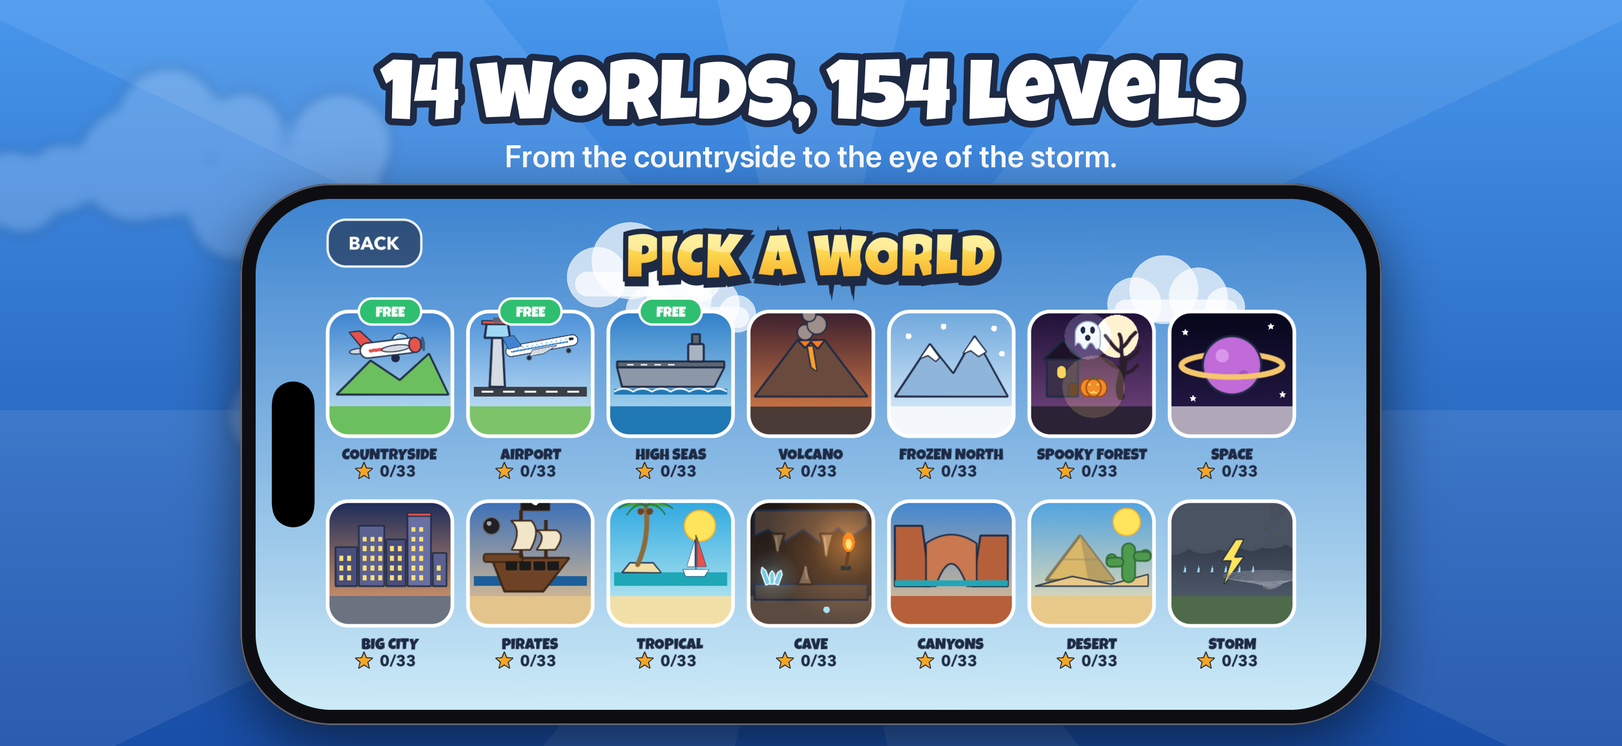
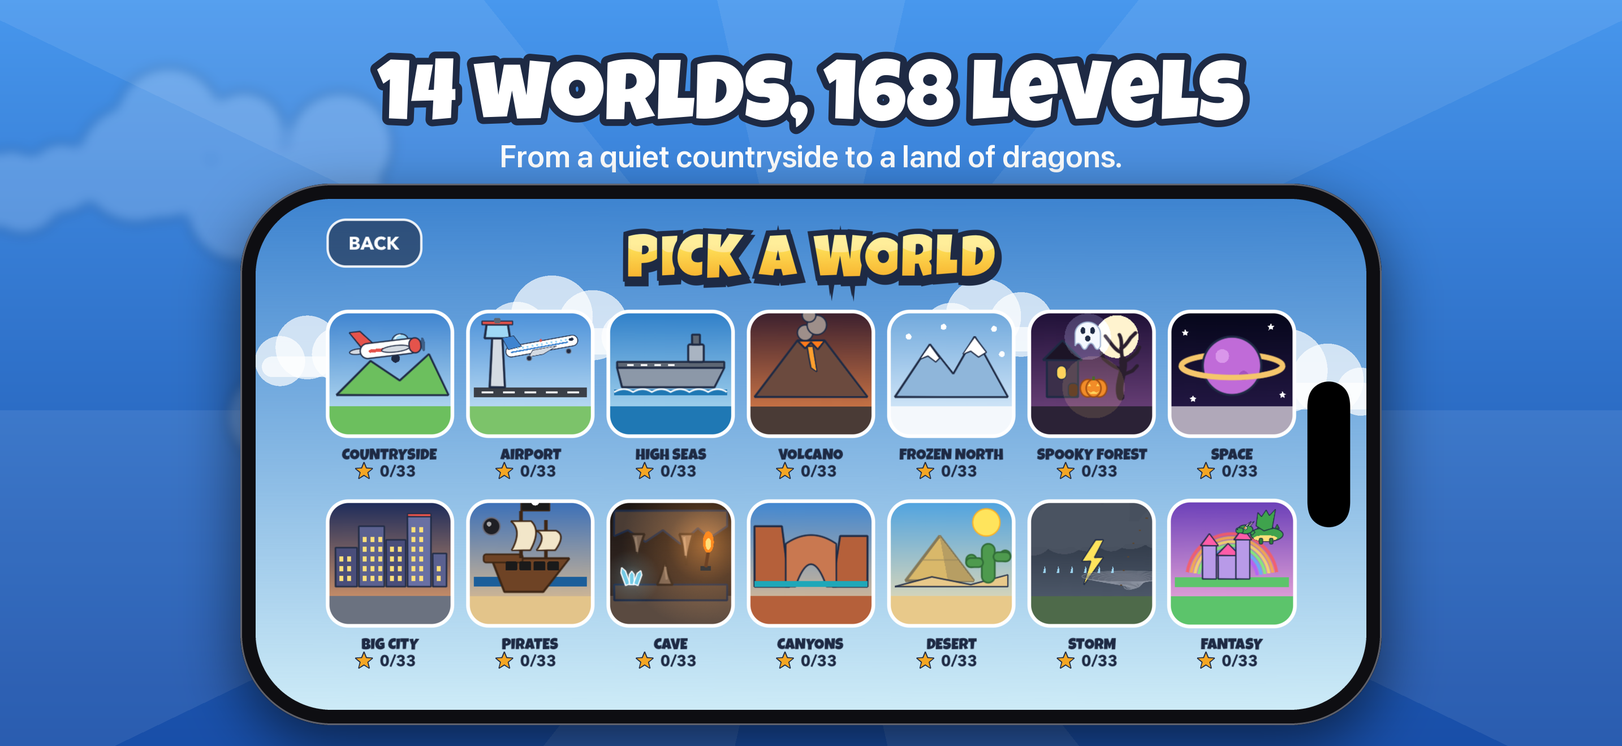
Land the Plane: content pass for the current game (Fantasy world, 168 levels, endurance flights, point packs, leaderboards) and new worlds screenshot

diff --git a/landtheplane/press/index.html b/landtheplane/press/index.html
@@ -195,7 +195,7 @@ footer { color: var(--muted); font-size: 14px; }
   <section aria-labelledby="worlds-h">
     <div class="section-head">
       <span class="label">Flight plan</span>
-      <h2 id="worlds-h">14 worlds, 154 levels</h2>
+      <h2 id="worlds-h">14 worlds, 168 levels</h2>
     </div>
     <div class="worlds">
       <div class="world free"><span class="n">WORLD 1 · FREE</span><div class="t">Countryside</div><div class="d">Learn to fly</div></div>
@@ -207,11 +207,11 @@ footer { color: var(--muted); font-size: 14px; }
       <div class="world"><span class="n">WORLD 7</span><div class="t">Space</div><div class="d">New planet, new gravity</div></div>
       <div class="world"><span class="n">WORLD 8</span><div class="t">Big City</div><div class="d">Rooftop landings</div></div>
       <div class="world"><span class="n">WORLD 9</span><div class="t">Pirates</div><div class="d">Cannons, forts, and treasure</div></div>
-      <div class="world"><span class="n">WORLD 10</span><div class="t">Tropical</div><div class="d">Beaches, lagoons, and rafts</div></div>
-      <div class="world"><span class="n">WORLD 11</span><div class="t">Cave</div><div class="d">Mind the roof</div></div>
-      <div class="world"><span class="n">WORLD 12</span><div class="t">Canyons</div><div class="d">Arches, tunnels, and trains</div></div>
-      <div class="world"><span class="n">WORLD 13</span><div class="t">Desert</div><div class="d">Dunes, ruins, and sandstorms</div></div>
-      <div class="world"><span class="n">WORLD 14</span><div class="t">Storm</div><div class="d">The ultimate challenge</div></div>
+      <div class="world"><span class="n">WORLD 10</span><div class="t">Cave</div><div class="d">Mind the roof</div></div>
+      <div class="world"><span class="n">WORLD 11</span><div class="t">Canyons</div><div class="d">Arches, tunnels, and trains</div></div>
+      <div class="world"><span class="n">WORLD 12</span><div class="t">Desert</div><div class="d">Dunes, ruins, and sandstorms</div></div>
+      <div class="world"><span class="n">WORLD 13</span><div class="t">Storm</div><div class="d">The ultimate challenge</div></div>
+      <div class="world"><span class="n">WORLD 14</span><div class="t">Fantasy</div><div class="d">Dragons, goblins, and fairies</div></div>
     </div>
   </section>
 
@@ -222,12 +222,14 @@ footer { color: var(--muted); font-size: 14px; }
     </div>
     <div class="features">
       <div class="feature"><h3>Slingshot launch</h3><p>One drag sets the power. Then it is climb, dive, and flaps to line up the touchdown.</p></div>
-      <div class="feature"><h3>Hazards in every world</h3><p>Lava bombs, ice chunks, ghosts, bats, asteroids, cannonballs, lightning, and tornadoes, depending on the world.</p></div>
+      <div class="feature"><h3>Endurance flights</h3><p>Three-star every level in a world to unlock its endurance flight: a long journey from day into night with the engine running, a fuel gauge, and fuel cans to grab. A flag marks your best distance.</p></div>
+      <div class="feature"><h3>Hazards in every world</h3><p>Lava bombs, ice chunks, ghosts, bats, asteroids, cannonballs, fighter jets, hawks, tornadoes, lightning, dragon fire, and a boulder-throwing rock monster, depending on the world.</p></div>
       <div class="feature"><h3>Runways that move</h3><p>Carriers, trains, rafts, and floating ice floes, with an arrestor wire to catch.</p></div>
       <div class="feature"><h3>New planets, new gravity</h3><p>In Space, each planet has its own gravity and air.</p></div>
-      <div class="feature"><h3>Daily challenges</h3><p>Three new challenges a day, easy, medium, and hard, that pay out points.</p></div>
-      <div class="feature"><h3>Plane shop</h3><p>Spend earned points on more than 80 plane skins, smoke trails, and slingshots, from common to legendary.</p></div>
-      <div class="feature"><h3>Game Center achievements</h3><p>47 achievements for landings, streaks, special runways, and night flights.</p></div>
+      <div class="feature"><h3>A world of sound</h3><p>Every world has its own soundscape, and hazards growl, cackle, and gloat when they get you.</p></div>
+      <div class="feature"><h3>Daily challenges</h3><p>Three new challenges a day, easy, medium, and hard, that pay out points. Free for everyone.</p></div>
+      <div class="feature"><h3>Plane shop</h3><p>Spend earned points on nearly 90 plane skins, smoke trails, and slingshots, from common to legendary.</p></div>
+      <div class="feature"><h3>Game Center</h3><p>46 achievements and leaderboards for total stars, endurance distance, and daily challenges.</p></div>
       <div class="feature"><h3>No ads, no tracking</h3><p>No account, no ads, no analytics, and it plays fully offline.</p></div>
     </div>
   </section>
@@ -246,7 +248,7 @@ footer { color: var(--muted); font-size: 14px; }
       <figure><a href="/assets/images/landtheplane/store/full/iphone-space.png" download><img src="/assets/images/landtheplane/store/iphone-space.jpg" alt="The plane gliding over the surface of Mars with a planet hanging in the sky." width="1600" height="736" loading="lazy"></a><figcaption>New planet, new gravity</figcaption></figure>
       <figure><a href="/assets/images/landtheplane/store/full/iphone-carrier.png" download><img src="/assets/images/landtheplane/store/iphone-carrier.jpg" alt="The plane lining up its approach to a grey aircraft carrier with a glowing deck." width="1600" height="736" loading="lazy"></a><figcaption>Land on a moving carrier</figcaption></figure>
       <figure><a href="/assets/images/landtheplane/store/full/iphone-volcano.png" download><img src="/assets/images/landtheplane/store/iphone-volcano.jpg" alt="The plane flying over a volcano with lava rivers and lava bombs in the air." width="1600" height="736" loading="lazy"></a><figcaption>Dodge the lava bombs</figcaption></figure>
-      <figure><a href="/assets/images/landtheplane/store/full/iphone-worlds.png" download><img src="/assets/images/landtheplane/store/iphone-worlds.jpg" alt="The world picker showing all 14 worlds, with the first three marked free." width="1600" height="736" loading="lazy"></a><figcaption>14 worlds, 154 levels</figcaption></figure>
+      <figure><a href="/assets/images/landtheplane/store/full/iphone-worlds.png" download><img src="/assets/images/landtheplane/store/iphone-worlds.jpg" alt="The world picker showing all 14 worlds, with the first three marked free." width="1600" height="736" loading="lazy"></a><figcaption>14 worlds, 168 levels</figcaption></figure>
       <figure><a href="/assets/images/landtheplane/store/full/iphone-shop.png" download><img src="/assets/images/landtheplane/store/iphone-shop.jpg" alt="The plane shop with the legendary dragon selected." width="1600" height="736" loading="lazy"></a><figcaption>Unlock legendary planes</figcaption></figure>
       <figure><a href="/assets/images/landtheplane/store/full/iphone-challenges.png" download><img src="/assets/images/landtheplane/store/iphone-challenges.jpg" alt="The daily challenges panel with an easy, a medium, and a hard mission." width="1600" height="736" loading="lazy"></a><figcaption>New challenges every day</figcaption></figure>
     </div>
@@ -258,7 +260,7 @@ footer { color: var(--muted); font-size: 14px; }
       <figure><a href="/assets/images/landtheplane/store/full/ipad-space.png" download><img src="/assets/images/landtheplane/store/ipad-space.jpg" alt="The plane gliding over the surface of Mars with a planet hanging in the sky." width="1200" height="900" loading="lazy"></a><figcaption>New planet, new gravity</figcaption></figure>
       <figure><a href="/assets/images/landtheplane/store/full/ipad-carrier.png" download><img src="/assets/images/landtheplane/store/ipad-carrier.jpg" alt="The plane lining up its approach to a grey aircraft carrier with a glowing deck." width="1200" height="900" loading="lazy"></a><figcaption>Land on a moving carrier</figcaption></figure>
       <figure><a href="/assets/images/landtheplane/store/full/ipad-volcano.png" download><img src="/assets/images/landtheplane/store/ipad-volcano.jpg" alt="The plane flying over a volcano with lava rivers and lava bombs in the air." width="1200" height="900" loading="lazy"></a><figcaption>Dodge the lava bombs</figcaption></figure>
-      <figure><a href="/assets/images/landtheplane/store/full/ipad-worlds.png" download><img src="/assets/images/landtheplane/store/ipad-worlds.jpg" alt="The world picker showing all 14 worlds, with the first three marked free." width="1200" height="900" loading="lazy"></a><figcaption>14 worlds, 154 levels</figcaption></figure>
+      <figure><a href="/assets/images/landtheplane/store/full/ipad-worlds.png" download><img src="/assets/images/landtheplane/store/ipad-worlds.jpg" alt="The world picker showing all 14 worlds, with the first three marked free." width="1200" height="900" loading="lazy"></a><figcaption>14 worlds, 168 levels</figcaption></figure>
       <figure><a href="/assets/images/landtheplane/store/full/ipad-shop.png" download><img src="/assets/images/landtheplane/store/ipad-shop.jpg" alt="The plane shop with the legendary dragon selected." width="1200" height="900" loading="lazy"></a><figcaption>Unlock legendary planes</figcaption></figure>
       <figure><a href="/assets/images/landtheplane/store/full/ipad-challenges.png" download><img src="/assets/images/landtheplane/store/ipad-challenges.jpg" alt="The daily challenges panel with an easy, a medium, and a hard mission." width="1200" height="900" loading="lazy"></a><figcaption>New challenges every day</figcaption></figure>
     </div>
@@ -287,11 +289,11 @@ footer { color: var(--muted); font-size: 14px; }
     <div class="copyblocks">
       <div class="copy">
         <div class="copy-top"><span class="label">One line</span><button type="button" data-copy="c1">Copy</button></div>
-        <p id="c1">Land the Plane is an iPhone and iPad game where you launch a little plane with a slingshot and set it down gently on the runway, across 14 worlds.</p>
+        <p id="c1">Land the Plane is an iPhone and iPad game where you launch a little plane with a slingshot and set it down gently on the runway, across 14 worlds, with long endurance flights from day into night.</p>
       </div>
       <div class="copy">
         <div class="copy-top"><span class="label">Short paragraph</span><button type="button" data-copy="c2">Copy</button></div>
-        <p id="c2">Land the Plane is a game for iPhone and iPad about one thing: landing. Players drag back to launch a little plane with a slingshot, then climb, dive, and use flaps to bring it down gently on the runway for up to three stars. 154 levels across 14 worlds mix in moving carriers, trains, and ice floes, lava bombs, ghosts, and asteroids, and even planets with their own gravity. The first three worlds are free, and a one-time purchase unlocks the rest along with daily challenges, a plane shop, and Game Center achievements. There are no ads, no accounts, and no tracking. Land the Plane was built by independent developer Alexander Rohr, and the name comes from a real moment: a business call that would not end, and his wife, sitting next to him in the carpool line, saying &ldquo;land the plane.&rdquo;</p>
+        <p id="c2">Land the Plane is a game for iPhone and iPad about one thing: landing. Players drag back to launch a little plane with a slingshot, then climb, dive, and use flaps to bring it down gently on the runway for up to three stars. 168 levels across 14 worlds mix in moving carriers, trains, and ice floes, lava bombs, ghosts, fighter jets, and even planets with their own gravity. Three-starring a world unlocks its endurance flight, a long run from day into night where players manage fuel and chase a best distance. The first three worlds are free, and a one-time purchase unlocks the other eleven. Daily challenges, the plane shop, and Game Center leaderboards are free for everyone. There are no ads, no accounts, and no tracking. Land the Plane was built by independent developer Alexander Rohr, and the name comes from a real moment: a business call that would not end, and his wife, sitting next to him in the carpool line, saying &ldquo;land the plane.&rdquo;</p>
       </div>
     </div>
   </section>
@@ -308,11 +310,11 @@ footer { color: var(--muted); font-size: 14px; }
       <div class="fact"><span class="label">Release</span><span>Coming soon to the App Store</span></div>
       <div class="fact"><span class="label">Category</span><span>Games</span></div>
       <div class="fact"><span class="label">Price</span><span>Free download</span></div>
-      <div class="fact"><span class="label">In-app purchase</span><span>Unlock All Worlds, $3.99 one time, no subscription</span></div>
-      <div class="fact"><span class="label">Free</span><span>Countryside, Airport, and High Seas (33 levels)</span></div>
-      <div class="fact"><span class="label">Content</span><span>14 worlds, 154 levels, 3 stars per level</span></div>
-      <div class="fact"><span class="label">Shop</span><span>More than 80 items: plane skins, smoke trails, and slingshots, common to legendary</span></div>
-      <div class="fact"><span class="label">Game Center</span><span>47 achievements, optional sign-in</span></div>
+      <div class="fact"><span class="label">In-app purchases</span><span>Unlock All Worlds, $3.99 one time, no subscription. Optional point packs for the shop, $0.99 and $2.99</span></div>
+      <div class="fact"><span class="label">Free</span><span>Countryside, Airport, and High Seas, plus daily challenges, the plane shop, and leaderboards</span></div>
+      <div class="fact"><span class="label">Content</span><span>14 worlds, 168 levels including an endurance flight in each world, up to 3 stars per level</span></div>
+      <div class="fact"><span class="label">Shop</span><span>Nearly 90 items: plane skins, smoke trails, and slingshots, common to legendary</span></div>
+      <div class="fact"><span class="label">Game Center</span><span>46 achievements and 3 leaderboards, optional sign-in</span></div>
       <div class="fact"><span class="label">Privacy</span><span>No account, no ads, no analytics, no servers of its own. <a href="/landtheplane/privacy/">Privacy policy</a></span></div>
       <div class="fact"><span class="label">Terms</span><span><a href="/landtheplane/terms/">Terms &amp; Conditions</a></span></div>
       <div class="fact"><span class="label">Built with</span><span>SpriteKit, GameKit, StoreKit 2</span></div>
@@ -325,7 +327,7 @@ footer { color: var(--muted); font-size: 14px; }
       <h2 id="credits-h">Credits</h2>
     </div>
     <div class="contact">
-      <p>Heading font: Luckiest Guy by Astigmatic, under the Apache License 2.0. Music and sound effects are synthesized in the game itself.</p>
+      <p>Heading font: Luckiest Guy by Astigmatic, under the Apache License 2.0.</p>
     </div>
   </section>
 

diff --git a/landtheplane/index.html b/landtheplane/index.html
@@ -4,9 +4,9 @@
 <meta charset="utf-8">
 <meta name="viewport" content="width=device-width, initial-scale=1">
 <title>Land the Plane · Rohr Software</title>
-<meta name="description" content="Land the Plane is an iPhone and iPad game about launching a little plane with a slingshot and setting it down gently on the runway, across 14 worlds and 154 levels.">
+<meta name="description" content="Land the Plane is an iPhone and iPad game about launching a little plane with a slingshot and setting it down gently on the runway, across 14 worlds and 168 levels.">
 <meta property="og:title" content="Land the Plane">
-<meta property="og:description" content="Launch with a slingshot, glide over the hazards, and land gently. 14 worlds, 154 levels, no ads.">
+<meta property="og:description" content="Launch with a slingshot, glide over the hazards, and land gently. 14 worlds, 168 levels, no ads.">
 <meta property="og:image" content="/assets/images/landtheplane/icon-512.png">
 <link rel="icon" href="/favicon.ico" sizes="any">
 <link rel="icon" type="image/png" sizes="32x32" href="/favicon-32.png">
@@ -130,11 +130,11 @@
       <div class="world"><span class="n">WORLD 7</span><div class="t">Space</div><div class="d">New planet, new gravity</div></div>
       <div class="world"><span class="n">WORLD 8</span><div class="t">Big City</div><div class="d">Rooftop landings</div></div>
       <div class="world"><span class="n">WORLD 9</span><div class="t">Pirates</div><div class="d">Cannons, forts, and treasure</div></div>
-      <div class="world"><span class="n">WORLD 10</span><div class="t">Tropical</div><div class="d">Beaches, lagoons, and rafts</div></div>
-      <div class="world"><span class="n">WORLD 11</span><div class="t">Cave</div><div class="d">Mind the roof</div></div>
-      <div class="world"><span class="n">WORLD 12</span><div class="t">Canyons</div><div class="d">Arches, tunnels, and trains</div></div>
-      <div class="world"><span class="n">WORLD 13</span><div class="t">Desert</div><div class="d">Dunes, ruins, and sandstorms</div></div>
-      <div class="world"><span class="n">WORLD 14</span><div class="t">Storm</div><div class="d">The ultimate challenge</div></div>
+      <div class="world"><span class="n">WORLD 10</span><div class="t">Cave</div><div class="d">Mind the roof</div></div>
+      <div class="world"><span class="n">WORLD 11</span><div class="t">Canyons</div><div class="d">Arches, tunnels, and trains</div></div>
+      <div class="world"><span class="n">WORLD 12</span><div class="t">Desert</div><div class="d">Dunes, ruins, and sandstorms</div></div>
+      <div class="world"><span class="n">WORLD 13</span><div class="t">Storm</div><div class="d">The ultimate challenge</div></div>
+      <div class="world"><span class="n">WORLD 14</span><div class="t">Fantasy</div><div class="d">Dragons, goblins, and fairies</div></div>
     </div>
   </section>
 
@@ -144,13 +144,15 @@
       <h2 id="feat-h">Easy to learn, hard to land</h2>
     </div>
     <div class="features">
-      <div class="feature"><h3>154 levels</h3><p>Eleven levels in every world, from a gentle first flight to the storm finale, with night landings along the way.</p></div>
-      <div class="feature"><h3>Hazards that fly back</h3><p>Dodge lava bombs, ice chunks, ghosts, bats, asteroids, cannonballs, lightning, and tornadoes, depending on where you are.</p></div>
+      <div class="feature"><h3>168 levels</h3><p>Twelve levels in every world, from a gentle first flight to a night bonus, plus a legendary endurance flight.</p></div>
+      <div class="feature"><h3>Endurance flights</h3><p>Three-star every level in a world to unlock its endurance flight: a long journey from day into night with the engine running. Hold the throttle, watch the fuel gauge, grab fuel cans, and don't climb too high or the engine stalls. A flag marks your best distance.</p></div>
+      <div class="feature"><h3>Hazards that fly back</h3><p>Dodge lava bombs, ice chunks, ghosts, bats, asteroids, cannonballs, fighter jets, hawks, tornadoes, lightning, dragon fire, and a rock monster that throws boulders.</p></div>
       <div class="feature"><h3>Runways that move</h3><p>Land on a carrier at sea, a rolling train, a bobbing raft, or a floating ice floe, and catch the arrestor wire.</p></div>
       <div class="feature"><h3>New planets, new gravity</h3><p>In Space, each planet has its own gravity and air, so the same flying skills need a different touch.</p></div>
-      <div class="feature"><h3>Daily challenges</h3><p>Three new challenges every day, easy, medium, and hard, that pay out points for finishing them.</p></div>
-      <div class="feature"><h3>Plane shop</h3><p>Spend your points on more than 80 plane skins, smoke trails, and slingshots, from common to legendary. Fly a dragon, a UFO, or a rainbow unicorn.</p></div>
-      <div class="feature"><h3>47 achievements</h3><p>Earn Game Center achievements for perfect landings, long streaks, special runways, and night flights.</p></div>
+      <div class="feature"><h3>A world of sound</h3><p>Every world has its own soundscape, from birdsong and crashing waves to howling wind, city traffic, and bubbling lava. Hazards growl, cackle, and gloat when they get you.</p></div>
+      <div class="feature"><h3>Daily challenges</h3><p>Three new challenges every day, easy, medium, and hard, pay out points. They're free for everyone.</p></div>
+      <div class="feature"><h3>Plane shop</h3><p>Spend your points on nearly 90 plane skins, smoke trails, and slingshots, from common to legendary. Fly a dragon, a UFO, or a rainbow unicorn.</p></div>
+      <div class="feature"><h3>Achievements and leaderboards</h3><p>Earn 46 Game Center achievements and compete on leaderboards for total stars, endurance distance, and daily challenges.</p></div>
       <div class="feature"><h3>Made for both screens</h3><p>Plays in landscape on iPhone and iPad, with settings for music, sound, vibration, and on-screen pitch buttons.</p></div>
       <div class="feature"><h3>No ads, no tracking</h3><p>No account, no ads, and no analytics. The game works fully offline.</p></div>
     </div>
@@ -169,7 +171,7 @@
       <figure><img src="/assets/images/landtheplane/store/iphone-space.jpg" alt="The plane gliding over the surface of Mars with a planet hanging in the sky." width="1600" height="736" loading="lazy"><figcaption>New planet, new gravity</figcaption></figure>
       <figure><img src="/assets/images/landtheplane/store/iphone-carrier.jpg" alt="The plane lining up its approach to a grey aircraft carrier with a glowing deck." width="1600" height="736" loading="lazy"><figcaption>Land on a moving carrier</figcaption></figure>
       <figure><img src="/assets/images/landtheplane/store/iphone-volcano.jpg" alt="The plane flying over a volcano with lava rivers and lava bombs in the air." width="1600" height="736" loading="lazy"><figcaption>Dodge the lava bombs</figcaption></figure>
-      <figure><img src="/assets/images/landtheplane/store/iphone-worlds.jpg" alt="The world picker showing all 14 worlds, with the first three marked free." width="1600" height="736" loading="lazy"><figcaption>14 worlds, 154 levels</figcaption></figure>
+      <figure><img src="/assets/images/landtheplane/store/iphone-worlds.jpg" alt="The world picker showing all 14 worlds, with the first three marked free." width="1600" height="736" loading="lazy"><figcaption>14 worlds, 168 levels</figcaption></figure>
       <figure><img src="/assets/images/landtheplane/store/iphone-shop.jpg" alt="The plane shop with the legendary dragon selected." width="1600" height="736" loading="lazy"><figcaption>Unlock legendary planes</figcaption></figure>
       <figure><img src="/assets/images/landtheplane/store/iphone-challenges.jpg" alt="The daily challenges panel with an easy, a medium, and a hard mission." width="1600" height="736" loading="lazy"><figcaption>New challenges every day</figcaption></figure>
     </div>
@@ -188,7 +190,7 @@
       <figure><img src="/assets/images/landtheplane/store/ipad-space.jpg" alt="The plane gliding over the surface of Mars with a planet hanging in the sky." width="1200" height="900" loading="lazy"><figcaption>New planet, new gravity</figcaption></figure>
       <figure><img src="/assets/images/landtheplane/store/ipad-carrier.jpg" alt="The plane lining up its approach to a grey aircraft carrier with a glowing deck." width="1200" height="900" loading="lazy"><figcaption>Land on a moving carrier</figcaption></figure>
       <figure><img src="/assets/images/landtheplane/store/ipad-volcano.jpg" alt="The plane flying over a volcano with lava rivers and lava bombs in the air." width="1200" height="900" loading="lazy"><figcaption>Dodge the lava bombs</figcaption></figure>
-      <figure><img src="/assets/images/landtheplane/store/ipad-worlds.jpg" alt="The world picker showing all 14 worlds, with the first three marked free." width="1200" height="900" loading="lazy"><figcaption>14 worlds, 154 levels</figcaption></figure>
+      <figure><img src="/assets/images/landtheplane/store/ipad-worlds.jpg" alt="The world picker showing all 14 worlds, with the first three marked free." width="1200" height="900" loading="lazy"><figcaption>14 worlds, 168 levels</figcaption></figure>
       <figure><img src="/assets/images/landtheplane/store/ipad-shop.jpg" alt="The plane shop with the legendary dragon selected." width="1200" height="900" loading="lazy"><figcaption>Unlock legendary planes</figcaption></figure>
       <figure><img src="/assets/images/landtheplane/store/ipad-challenges.jpg" alt="The daily challenges panel with an easy, a medium, and a hard mission." width="1200" height="900" loading="lazy"><figcaption>New challenges every day</figcaption></figure>
     </div>
@@ -205,17 +207,24 @@
         <p class="amount">$0</p>
         <ul>
           <li>Countryside, Airport, and High Seas</li>
-          <li>33 levels, with stars and records</li>
-          <li>Music, sound, and vibration settings</li>
+          <li>Daily challenges, the plane shop, and Game Center leaderboards</li>
+          <li>Stars, records, and every setting</li>
         </ul>
       </div>
       <div class="tier pro">
         <h3>Unlock All Worlds</h3>
         <p class="amount">$3.99 <span class="muted" style="font-size:15px;font-weight:600">one time</span></p>
         <ul>
-          <li>All 14 worlds, and every world added later</li>
-          <li>Daily challenges and the plane shop</li>
+          <li>The other eleven worlds, with their endurance flights</li>
           <li>No subscription, restorable on any device with the same Apple Account</li>
+        </ul>
+      </div>
+      <div class="tier">
+        <h3>Point packs</h3>
+        <p class="amount">$0.99 <span class="muted" style="font-size:15px;font-weight:600">and $2.99</span></p>
+        <ul>
+          <li>Optional: more points to spend in the shop</li>
+          <li>Points are also earned free by playing</li>
         </ul>
       </div>
     </div>
@@ -227,7 +236,7 @@
       <h2 id="priv-h">Stays on your device</h2>
     </div>
     <div class="prose">
-      <p>Land the Plane has no account, no ads, and no third-party analytics. Your stars, points, and settings are saved on your device, and the game has no servers of its own. Game Center achievements are optional.</p>
+      <p>Land the Plane has no account, no ads, and no third-party analytics. Your stars, points, and settings are saved on your device, and the game has no servers of its own. Game Center achievements and leaderboards are optional.</p>
       <p><a href="/landtheplane/privacy/">Read the privacy policy</a></p>
     </div>
   </section>

diff --git a/landtheplane/terms/index.html b/landtheplane/terms/index.html
@@ -44,7 +44,7 @@
   <header style="display:grid;gap:12px">
     <span class="label">Land the Plane</span>
     <h1>Terms &amp; Conditions</h1>
-    <p class="muted">Effective October 14, 2026</p>
+    <p class="muted">Effective October 22, 2026</p>
   </header>
 
   <div class="policy">
@@ -56,28 +56,32 @@
 
     <div class="notice">
       <h2>Progress is stored on your device only</h2>
-      <p>Land the Plane does not use iCloud or any account system. Your stars, points, unlocked cosmetics, and settings are stored only on the device you play on, and do not transfer if you get a new device or reinstall the App. Achievements you earned while signed in to Game Center are kept by Apple.</p>
-      <p>Unlock All Worlds is tied to your Apple Account and can be restored on a device using the same Apple Account through the App's Restore Purchases option, but progress and points earned by playing are not restored.</p>
+      <p>Land the Plane does not use iCloud or any account system. Your stars, points, best distances, unlocked cosmetics, and settings are stored only on the device you play on, and do not transfer if you get a new device or reinstall the App. Achievements and leaderboard scores you earned while signed in to Game Center are kept by Apple.</p>
+      <p>Unlock All Worlds is tied to your Apple Account and can be restored on a device using the same Apple Account through the App's Restore Purchases option. Progress and points, whether earned by playing or bought in a point pack, are not restored.</p>
     </div>
 
     <section>
       <h2>Purchases</h2>
-      <p>The App is free to download and includes its first three worlds at no cost. It offers one optional in-app purchase, Unlock All Worlds, which opens every other world, including worlds added in future updates, along with daily challenges and the plane shop. It is a one-time purchase and not a subscription.</p>
+      <p>The App is free to download and includes its first three worlds at no cost. Daily challenges, the plane shop, and Game Center leaderboards are free for everyone. The App offers optional in-app purchases:</p>
       <ul>
-        <li>Payment is charged to your Apple Account when you confirm the purchase.</li>
+        <li><strong>Unlock All Worlds</strong> is a one-time purchase that opens the other eleven worlds. It is not a subscription.</li>
+        <li><strong>Point packs</strong> add points to spend in the shop on plane skins, smoke trails, and slingshots. They are consumable: once the points are added, the purchase is used up and cannot be restored.</li>
+      </ul>
+      <ul>
+        <li>Payment is charged to your Apple Account when you confirm a purchase.</li>
         <li>Refunds are handled by Apple under its policies.</li>
-        <li>In-game points are earned by playing and are not sold for money.</li>
+        <li>Points can also be earned for free by playing. Points have no cash value and cannot be transferred or exchanged.</li>
       </ul>
     </section>
 
     <section>
       <h2>Game Center</h2>
-      <p>Achievements use Apple Game Center and are governed by Apple's own terms. Signing in to Game Center is optional.</p>
+      <p>Achievements and leaderboards use Apple Game Center and are governed by Apple's own terms. Signing in to Game Center is optional. Leaderboard scores are shown to other players with your Game Center name.</p>
     </section>
 
     <section>
       <h2>Acceptable use</h2>
-      <p>You agree to use the App only for lawful purposes. You agree not to copy, modify, reverse engineer, or attempt to extract the source code of the App, or to create derivative works from it, except as allowed by law. You agree not to tamper with the App's saved data or purchases to gain unlocks or achievements you have not earned or bought.</p>
+      <p>You agree to use the App only for lawful purposes. You agree not to copy, modify, reverse engineer, or attempt to extract the source code of the App, or to create derivative works from it, except as allowed by law. You agree not to tamper with the App's saved data or purchases to gain unlocks, points, achievements, or leaderboard scores you have not earned or bought.</p>
     </section>
 
     <section>
@@ -87,12 +91,12 @@
 
     <section>
       <h2>Internet connection</h2>
-      <p>Land the Plane can be played fully offline. An internet connection is needed only for in-app purchases, restoring them, and Game Center, and your mobile carrier's data charges may apply.</p>
+      <p>Land the Plane can be played fully offline. An internet connection is needed only for in-app purchases, restoring them, Game Center, and Apple's rating prompt, and your mobile carrier's data charges may apply.</p>
     </section>
 
     <section>
       <h2>Third-party services</h2>
-      <p>The App uses services provided by Apple, including the App Store for purchases and Game Center for achievements. Those services are governed by Apple's own terms and privacy policies.</p>
+      <p>The App uses services provided by Apple, including the App Store for purchases and ratings, and Game Center for achievements and leaderboards. Those services are governed by Apple's own terms and privacy policies.</p>
     </section>
 
     <section>

diff --git a/landtheplane/privacy/index.html b/landtheplane/privacy/index.html
@@ -44,7 +44,7 @@
   <header style="display:grid;gap:12px">
     <span class="label">Land the Plane</span>
     <h1>Privacy Policy</h1>
-    <p class="muted">Effective October 14, 2026</p>
+    <p class="muted">Effective October 22, 2026</p>
   </header>
 
   <div class="policy">
@@ -55,7 +55,7 @@
         <li>Your progress, purchases, and settings stay on your device.</li>
         <li>The developer does not collect, receive, or have access to any of it.</li>
         <li>Land the Plane has no account, no ads, no analytics, and no third-party tracking.</li>
-        <li>Achievements are handled by Apple Game Center, and signing in is optional.</li>
+        <li>Achievements and leaderboards are handled by Apple Game Center, and signing in is optional.</li>
       </ul>
     </div>
 
@@ -66,13 +66,14 @@
 
     <section>
       <h2>Information stored on your device</h2>
-      <p>Land the Plane stores your progress, such as the stars you have earned, your points and unlocked planes, smoke trails, and slingshots, your daily challenge progress, and your settings for music, sound, vibration, and pitch buttons, locally on your device using standard iOS storage. This information stays on the device it was created on; the App does not sync it to iCloud or any other device.</p>
+      <p>Land the Plane stores your progress, such as the stars you have earned, your best endurance distances, your points and unlocked planes, smoke trails, and slingshots, your daily challenge progress, and your settings for music, sound, vibration, and pitch buttons, locally on your device using standard iOS storage. This information stays on the device it was created on; the App does not sync it to iCloud or any other device.</p>
       <p>Land the Plane does not operate any servers, and the App does not send your progress or play activity to the Developer.</p>
     </section>
 
     <section>
       <h2>Game Center</h2>
-      <p>Land the Plane can report your achievements to Apple Game Center. If you are signed in to Game Center, your earned achievements are sent to and shown by Apple under <a href="https://www.apple.com/legal/privacy/">Apple's Privacy Policy</a>. The Developer does not receive them. The game works the same if you are not signed in, and it keeps your achievements on your device either way.</p>
+      <p>Land the Plane can report your achievements and leaderboard scores to Apple Game Center. If you are signed in to Game Center, your earned achievements, your total stars, your best endurance distance, and the number of daily challenges you have completed are sent to Apple. Leaderboard scores are shown to other Game Center players together with your Game Center name, as Apple's leaderboards work. All of this is handled by Apple under <a href="https://www.apple.com/legal/privacy/">Apple's Privacy Policy</a>. The Developer sees the same public leaderboard standings as any other player and receives nothing else.</p>
+      <p>The game works the same if you are not signed in, and it keeps your progress on your device either way. You can sign out of Game Center, or change what it shares, in your device's settings.</p>
     </section>
 
     <section>
@@ -83,7 +84,12 @@
 
     <section>
       <h2>Purchases</h2>
-      <p>The App offers one optional in-app purchase, Unlock All Worlds. It is processed by Apple through the App Store, and the Developer does not receive your payment information. The App asks Apple whether your Apple Account owns the purchase so it can unlock your worlds again after a reinstall or on a new device.</p>
+      <p>The App offers optional in-app purchases: Unlock All Worlds, and two packs of shop points. They are processed by Apple through the App Store, and the Developer does not receive your payment information. For Unlock All Worlds, the App asks Apple whether your Apple Account owns the purchase so it can unlock your worlds again after a reinstall or on a new device. Points are saved only on your device.</p>
+    </section>
+
+    <section>
+      <h2>Ratings and reviews</h2>
+      <p>At happy moments, such as after a good landing, the App may ask whether you would like to rate it. The prompt is Apple's standard one. Apple shows it and handles anything you submit, and the App does not see your answer.</p>
     </section>
 
     <section>
@@ -93,7 +99,7 @@
 
     <section>
       <h2>Links to other sites</h2>
-      <p>The App's About screen includes a link to a web page about the project. Opening it takes you to that site in your browser, where that site's own privacy policy applies. This website may also link to other websites, which have their own policies.</p>
+      <p>The App's About screen includes a link to the game's page on this website, rohrsoftware.dev. Opening it takes you to your browser. This website may also link to other websites, which have their own policies.</p>
     </section>
 
     <section>
